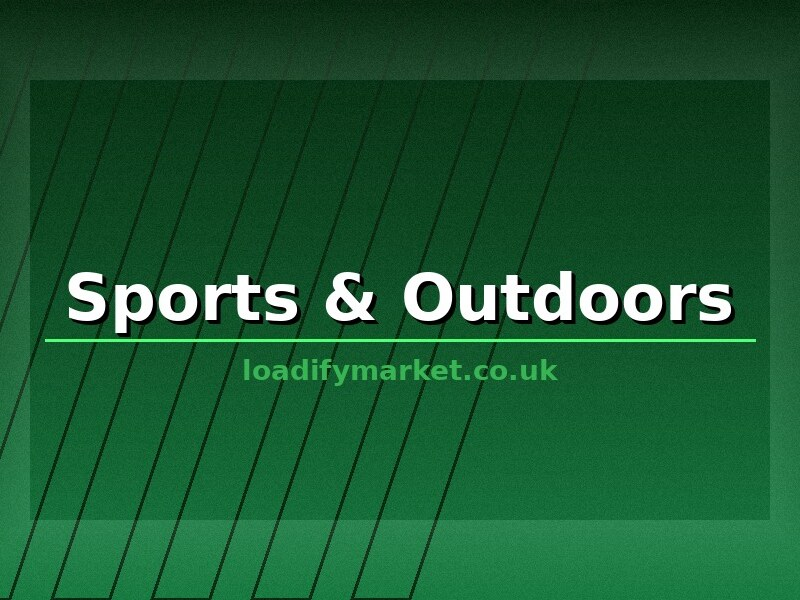
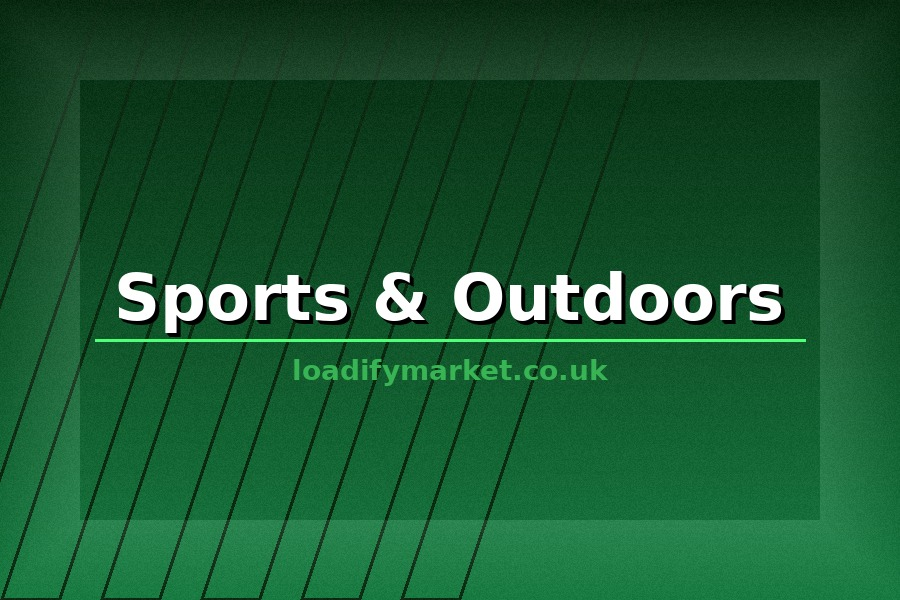
fix: repair all broken/missing/wrong category and hero images
Agent-Logs-Url: https://github.com/LoadifyMarketLTD/loadifymarket.co.uk/sessions/36ef06dd-941e-4d1d-97f1-1d4472ba1a17

diff --git a/src/components/HeroSection.tsx b/src/components/HeroSection.tsx
@@ -112,7 +112,7 @@ const HeroSection = () => {
           <div className="hidden lg:block lg:w-[48%] relative overflow-hidden">
             {/* LCP image */}
             <img
-                src="/hero.jpeg"
+                src="/hero-marketplace.png"
                 alt=""
                 aria-hidden="true"
                 className="absolute inset-0 w-full h-full object-cover object-center"
@@ -163,7 +163,7 @@ const HeroSection = () => {
           {/* ── Mobile: small accent image strip below text ───────────────── */}
           <div className="lg:hidden h-52 overflow-hidden relative">
             <img
-                src="/hero.jpeg"
+                src="/hero-marketplace.png"
                 alt=""
                 aria-hidden="true"
                 className="w-full h-full object-cover object-top"

diff --git a/src/components/CTASection.tsx b/src/components/CTASection.tsx
@@ -81,7 +81,7 @@ const CTASection = () => (
             {/* Ambient glow */}
             <div className="absolute inset-0 bg-amber-500/10 rounded-3xl blur-3xl" />
             <img
-                src="/hero.jpeg"
+                src="/hero-marketplace.png"
                 alt="Products available on Loadify Market"
                 width="960"
                 height="720"
